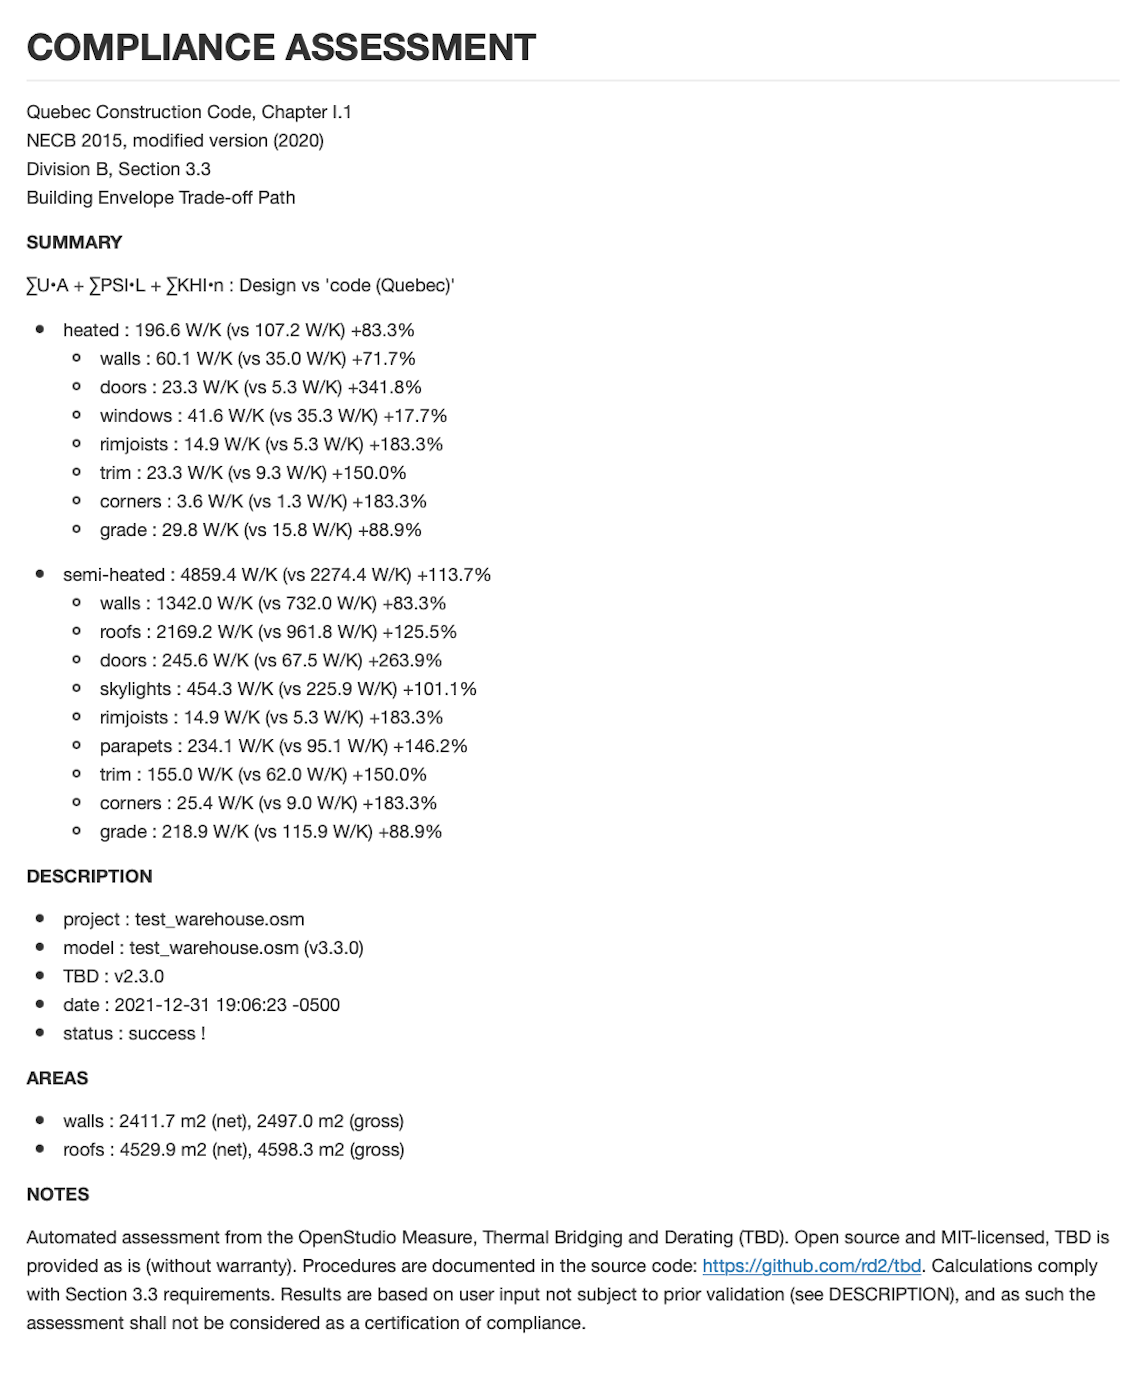
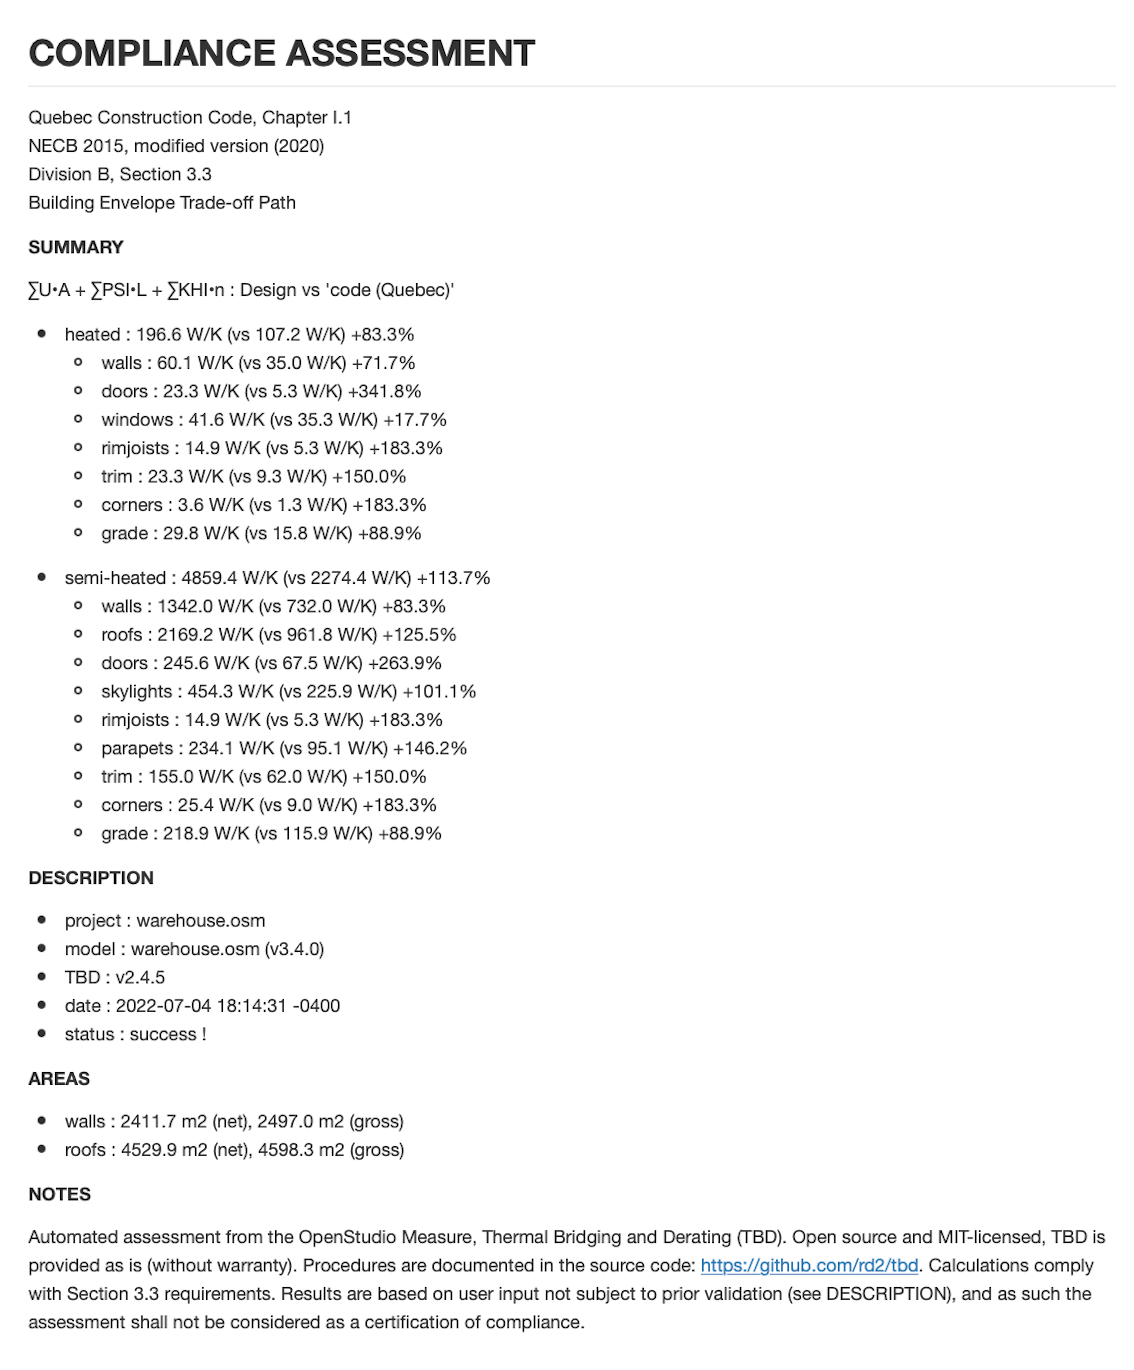
Update to v2.4.5

Changed region(s): [[0.0, 0.0, 0.9877, 0.981]]

diff --git a/_site/index.html b/_site/index.html
@@ -4,7 +4,7 @@
     <meta charset='utf-8'>
     <meta name="viewport" content="width=device-width, initial-scale=1">
     <meta http-equiv="X-UA-Compatible" content="IE=edge">
-    <link rel="stylesheet" href="/assets/css/style.css?v=f85274ee7773d13da623c9418be1deeab5ec98c1">
+    <link rel="stylesheet" href="/assets/css/style.css?v=78bea953d852e9333b89369494dccf703fcf3d7c">
     <link rel="stylesheet" type="text/css" href="/assets/css/print.css" media="print">
     <!--[if lt IE 9]>
     <script src="//html5shiv.googlecode.com/svn/trunk/html5.js"></script>
@@ -50,8 +50,8 @@
         </header>
         <section id="downloads" class="clearfix">
           
-          <a href="https://github.com/rd2/tbd/releases/download/v2.4.4/tbd.zip" id="download-zip" class="button"><span>Download .zip</span></a>
-          <a href="https://github.com/rd2/tbd/releases/download/v2.4.4/tbd.tar.gz" id="download-tar-gz" class="button"><span>Download .tar.gz</span></a>
+          <a href="https://github.com/rd2/tbd/releases/download/v2.4.5/tbd.zip" id="download-zip" class="button"><span>Download .zip</span></a>
+          <a href="https://github.com/rd2/tbd/releases/download/v2.4.5/tbd.tar.gz" id="download-tar-gz" class="button"><span>Download .tar.gz</span></a>
           
 	
         </section>

diff --git a/_site/pages/basics.html b/_site/pages/basics.html
@@ -4,7 +4,7 @@
     <meta charset='utf-8'>
     <meta name="viewport" content="width=device-width, initial-scale=1">
     <meta http-equiv="X-UA-Compatible" content="IE=edge">
-    <link rel="stylesheet" href="/assets/css/style.css?v=f85274ee7773d13da623c9418be1deeab5ec98c1">
+    <link rel="stylesheet" href="/assets/css/style.css?v=78bea953d852e9333b89369494dccf703fcf3d7c">
     <link rel="stylesheet" type="text/css" href="/assets/css/print.css" media="print">
     <!--[if lt IE 9]>
     <script src="//html5shiv.googlecode.com/svn/trunk/html5.js"></script>
@@ -50,8 +50,8 @@
         </header>
         <section id="downloads" class="clearfix">
           
-          <a href="https://github.com/rd2/tbd/releases/download/v2.4.4/tbd.zip" id="download-zip" class="button"><span>Download .zip</span></a>
-          <a href="https://github.com/rd2/tbd/releases/download/v2.4.4/tbd.tar.gz" id="download-tar-gz" class="button"><span>Download .tar.gz</span></a>
+          <a href="https://github.com/rd2/tbd/releases/download/v2.4.5/tbd.zip" id="download-zip" class="button"><span>Download .zip</span></a>
+          <a href="https://github.com/rd2/tbd/releases/download/v2.4.5/tbd.tar.gz" id="download-tar-gz" class="button"><span>Download .tar.gz</span></a>
           
 	
         </section>

diff --git a/_site/pages/custom.html b/_site/pages/custom.html
@@ -4,7 +4,7 @@
     <meta charset='utf-8'>
     <meta name="viewport" content="width=device-width, initial-scale=1">
     <meta http-equiv="X-UA-Compatible" content="IE=edge">
-    <link rel="stylesheet" href="/assets/css/style.css?v=f85274ee7773d13da623c9418be1deeab5ec98c1">
+    <link rel="stylesheet" href="/assets/css/style.css?v=78bea953d852e9333b89369494dccf703fcf3d7c">
     <link rel="stylesheet" type="text/css" href="/assets/css/print.css" media="print">
     <!--[if lt IE 9]>
     <script src="//html5shiv.googlecode.com/svn/trunk/html5.js"></script>
@@ -50,8 +50,8 @@
         </header>
         <section id="downloads" class="clearfix">
           
-          <a href="https://github.com/rd2/tbd/releases/download/v2.4.4/tbd.zip" id="download-zip" class="button"><span>Download .zip</span></a>
-          <a href="https://github.com/rd2/tbd/releases/download/v2.4.4/tbd.tar.gz" id="download-tar-gz" class="button"><span>Download .tar.gz</span></a>
+          <a href="https://github.com/rd2/tbd/releases/download/v2.4.5/tbd.zip" id="download-zip" class="button"><span>Download .zip</span></a>
+          <a href="https://github.com/rd2/tbd/releases/download/v2.4.5/tbd.tar.gz" id="download-tar-gz" class="button"><span>Download .tar.gz</span></a>
           
 	
         </section>

diff --git a/_site/pages/kiva.html b/_site/pages/kiva.html
@@ -4,7 +4,7 @@
     <meta charset='utf-8'>
     <meta name="viewport" content="width=device-width, initial-scale=1">
     <meta http-equiv="X-UA-Compatible" content="IE=edge">
-    <link rel="stylesheet" href="/assets/css/style.css?v=f85274ee7773d13da623c9418be1deeab5ec98c1">
+    <link rel="stylesheet" href="/assets/css/style.css?v=78bea953d852e9333b89369494dccf703fcf3d7c">
     <link rel="stylesheet" type="text/css" href="/assets/css/print.css" media="print">
     <!--[if lt IE 9]>
     <script src="//html5shiv.googlecode.com/svn/trunk/html5.js"></script>
@@ -50,8 +50,8 @@
         </header>
         <section id="downloads" class="clearfix">
           
-          <a href="https://github.com/rd2/tbd/releases/download/v2.4.4/tbd.zip" id="download-zip" class="button"><span>Download .zip</span></a>
-          <a href="https://github.com/rd2/tbd/releases/download/v2.4.4/tbd.tar.gz" id="download-tar-gz" class="button"><span>Download .tar.gz</span></a>
+          <a href="https://github.com/rd2/tbd/releases/download/v2.4.5/tbd.zip" id="download-zip" class="button"><span>Download .zip</span></a>
+          <a href="https://github.com/rd2/tbd/releases/download/v2.4.5/tbd.tar.gz" id="download-tar-gz" class="button"><span>Download .tar.gz</span></a>
           
 	
         </section>

diff --git a/_site/pages/reports.html b/_site/pages/reports.html
@@ -4,7 +4,7 @@
     <meta charset='utf-8'>
     <meta name="viewport" content="width=device-width, initial-scale=1">
     <meta http-equiv="X-UA-Compatible" content="IE=edge">
-    <link rel="stylesheet" href="/assets/css/style.css?v=f85274ee7773d13da623c9418be1deeab5ec98c1">
+    <link rel="stylesheet" href="/assets/css/style.css?v=78bea953d852e9333b89369494dccf703fcf3d7c">
     <link rel="stylesheet" type="text/css" href="/assets/css/print.css" media="print">
     <!--[if lt IE 9]>
     <script src="//html5shiv.googlecode.com/svn/trunk/html5.js"></script>
@@ -50,8 +50,8 @@
         </header>
         <section id="downloads" class="clearfix">
           
-          <a href="https://github.com/rd2/tbd/releases/download/v2.4.4/tbd.zip" id="download-zip" class="button"><span>Download .zip</span></a>
-          <a href="https://github.com/rd2/tbd/releases/download/v2.4.4/tbd.tar.gz" id="download-tar-gz" class="button"><span>Download .tar.gz</span></a>
+          <a href="https://github.com/rd2/tbd/releases/download/v2.4.5/tbd.zip" id="download-zip" class="button"><span>Download .zip</span></a>
+          <a href="https://github.com/rd2/tbd/releases/download/v2.4.5/tbd.tar.gz" id="download-tar-gz" class="button"><span>Download .tar.gz</span></a>
           
 	
         </section>

diff --git a/_site/pages/ua.html b/_site/pages/ua.html
@@ -4,7 +4,7 @@
     <meta charset='utf-8'>
     <meta name="viewport" content="width=device-width, initial-scale=1">
     <meta http-equiv="X-UA-Compatible" content="IE=edge">
-    <link rel="stylesheet" href="/assets/css/style.css?v=f85274ee7773d13da623c9418be1deeab5ec98c1">
+    <link rel="stylesheet" href="/assets/css/style.css?v=78bea953d852e9333b89369494dccf703fcf3d7c">
     <link rel="stylesheet" type="text/css" href="/assets/css/print.css" media="print">
     <!--[if lt IE 9]>
     <script src="//html5shiv.googlecode.com/svn/trunk/html5.js"></script>
@@ -50,8 +50,8 @@
         </header>
         <section id="downloads" class="clearfix">
           
-          <a href="https://github.com/rd2/tbd/releases/download/v2.4.4/tbd.zip" id="download-zip" class="button"><span>Download .zip</span></a>
-          <a href="https://github.com/rd2/tbd/releases/download/v2.4.4/tbd.tar.gz" id="download-tar-gz" class="button"><span>Download .tar.gz</span></a>
+          <a href="https://github.com/rd2/tbd/releases/download/v2.4.5/tbd.zip" id="download-zip" class="button"><span>Download .zip</span></a>
+          <a href="https://github.com/rd2/tbd/releases/download/v2.4.5/tbd.tar.gz" id="download-tar-gz" class="button"><span>Download .tar.gz</span></a>
           
 	
         </section>

diff --git a/_site/pages/ut.html b/_site/pages/ut.html
@@ -4,7 +4,7 @@
     <meta charset='utf-8'>
     <meta name="viewport" content="width=device-width, initial-scale=1">
     <meta http-equiv="X-UA-Compatible" content="IE=edge">
-    <link rel="stylesheet" href="/assets/css/style.css?v=f85274ee7773d13da623c9418be1deeab5ec98c1">
+    <link rel="stylesheet" href="/assets/css/style.css?v=78bea953d852e9333b89369494dccf703fcf3d7c">
     <link rel="stylesheet" type="text/css" href="/assets/css/print.css" media="print">
     <!--[if lt IE 9]>
     <script src="//html5shiv.googlecode.com/svn/trunk/html5.js"></script>
@@ -50,8 +50,8 @@
         </header>
         <section id="downloads" class="clearfix">
           
-          <a href="https://github.com/rd2/tbd/releases/download/v2.4.4/tbd.zip" id="download-zip" class="button"><span>Download .zip</span></a>
-          <a href="https://github.com/rd2/tbd/releases/download/v2.4.4/tbd.tar.gz" id="download-tar-gz" class="button"><span>Download .tar.gz</span></a>
+          <a href="https://github.com/rd2/tbd/releases/download/v2.4.5/tbd.zip" id="download-zip" class="button"><span>Download .zip</span></a>
+          <a href="https://github.com/rd2/tbd/releases/download/v2.4.5/tbd.tar.gz" id="download-tar-gz" class="button"><span>Download .tar.gz</span></a>
           
 	
         </section>
